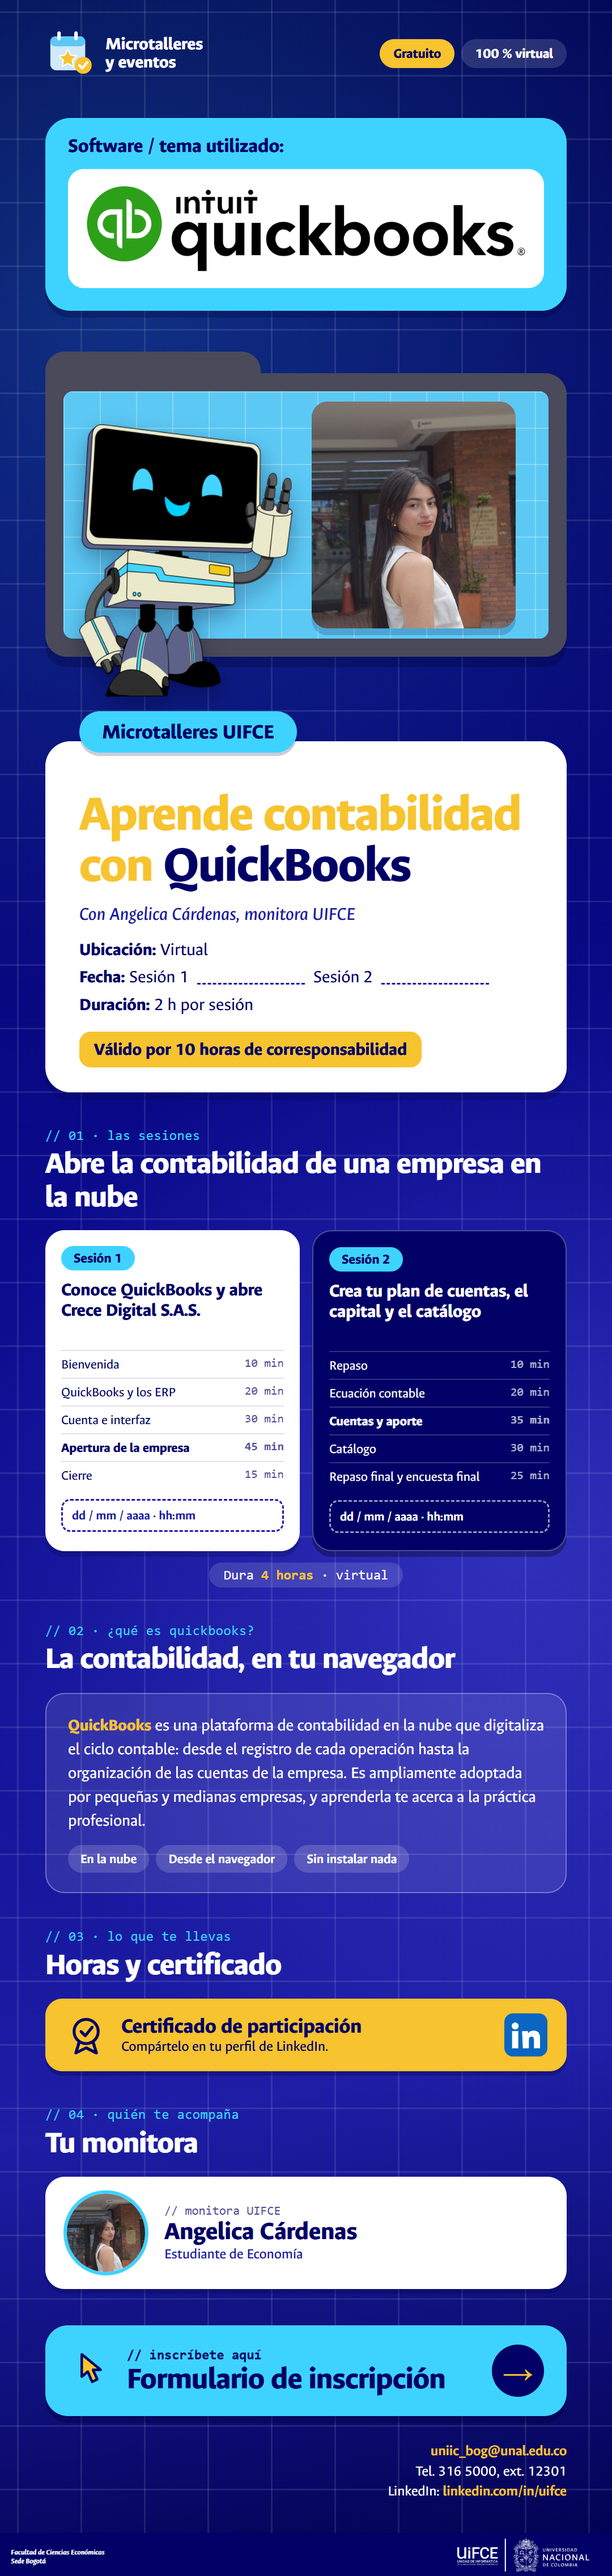
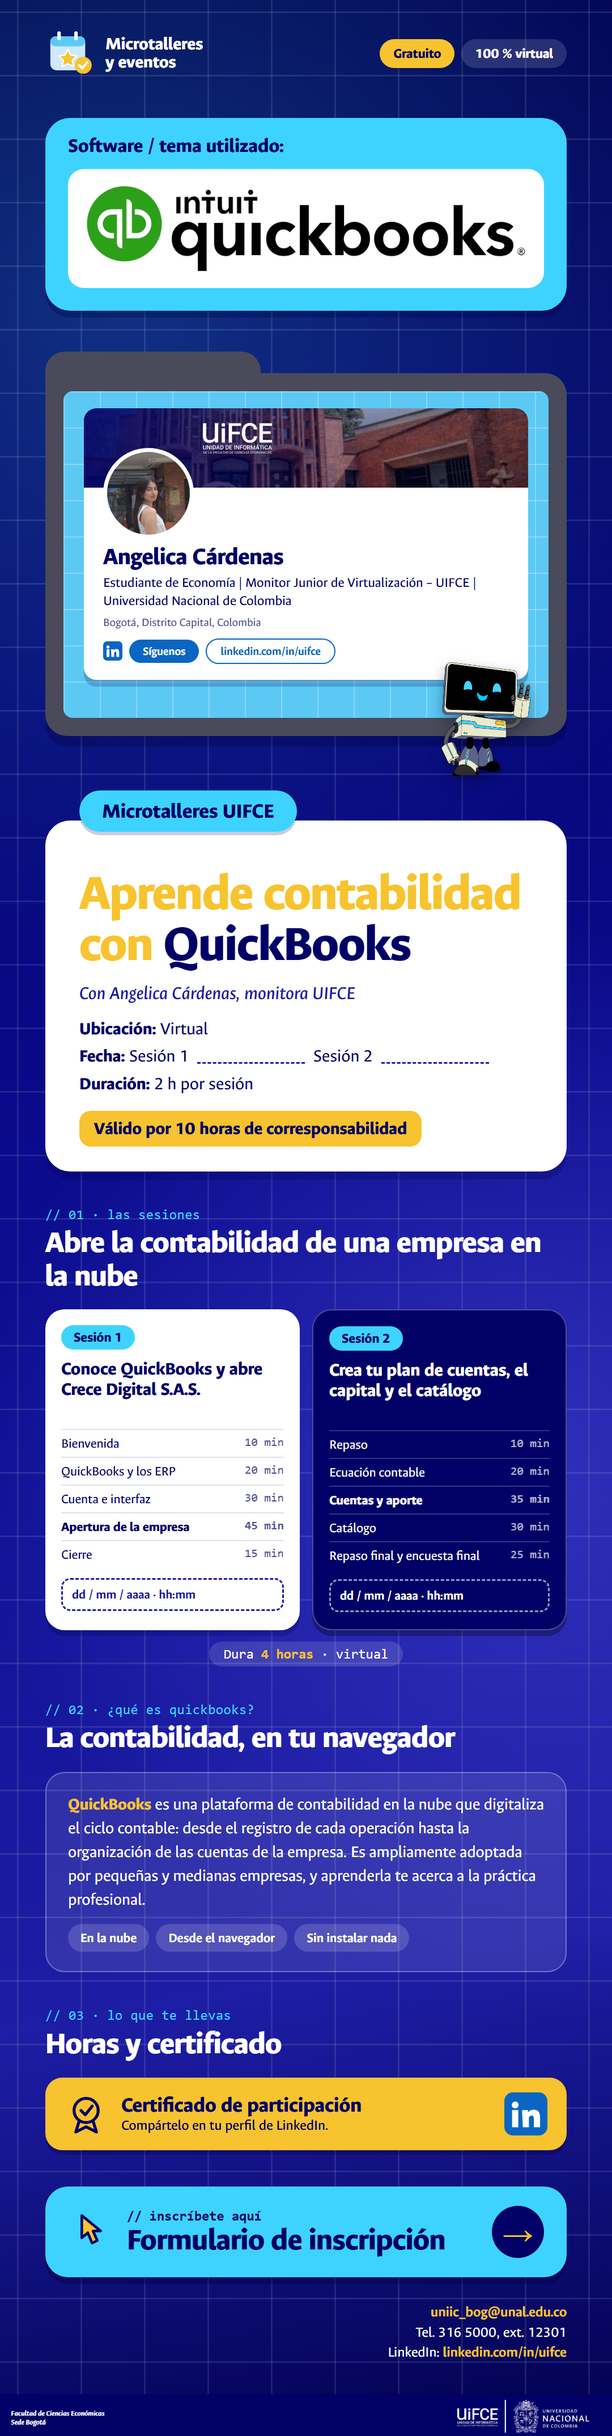
Propuesta 2: perfil de LinkedIn de la monitora, mascota mas pequena

diff --git a/propuesta-2/index.html b/propuesta-2/index.html
@@ -30,13 +30,25 @@
   .tags span.on{background:var(--gold);color:var(--navy)}
 
   /* ventana-carpeta con la foto */
-  .win{margin:110px 80px 0;height:500px;position:relative}
+  .win{margin:110px 80px 0;height:640px;position:relative}
   .win .back{position:absolute;inset:0;background:#4a4a5a;border-radius:38px;box-shadow:0 18px 0 rgba(0,0,40,.25)}
   .win .back::before{content:"";position:absolute;left:0;top:-38px;width:380px;height:80px;background:#4a4a5a;border-radius:34px 34px 0 0}
   .win .screen{position:absolute;left:32px;top:32px;right:32px;bottom:32px;border-radius:16px;background:
       linear-gradient(rgba(255,255,255,.28) 2px,transparent 2px),linear-gradient(90deg,rgba(255,255,255,.28) 2px,transparent 2px),var(--sky);background-size:64px 64px,64px 64px,auto}
-  .win .photo{position:absolute;left:470px;top:50px;width:360px;height:400px;border-radius:28px;object-fit:cover;object-position:60% 30%;box-shadow:0 12px 0 rgba(0,0,60,.18)}
-  .win .robot{position:absolute;left:60px;top:90px;height:480px;z-index:4;filter:drop-shadow(0 16px 20px rgba(0,0,40,.35))}
+  .win .robot{position:absolute;right:64px;bottom:-70px;height:200px;z-index:4;filter:drop-shadow(0 10px 12px rgba(0,0,40,.35))}
+  /* tarjeta estilo perfil de LinkedIn */
+  .pf{position:absolute;left:68px;right:68px;top:62px;background:#fff;border-radius:22px;overflow:hidden;box-shadow:0 12px 0 rgba(0,0,60,.2)}
+  .pf .cover{height:140px;position:relative;background:linear-gradient(90deg,rgba(0,0,102,.85),rgba(0,0,102,.1) 70%),url("assets/portada-uifce.jpg") center 35%/cover}
+  .pf .cover .lg{position:absolute;left:210px;top:26px;height:54px}
+  .pf .av{position:absolute;left:34px;top:70px;width:160px;height:160px;border-radius:50%;object-fit:cover;object-position:60% 25%;border:7px solid #fff;background:#fff}
+  .pf .body{padding:100px 34px 28px}
+  .pf h3{font-weight:800;font-size:44px;line-height:1;letter-spacing:-.01em}
+  .pf p{font-size:25px;line-height:1.3;margin-top:8px;color:var(--navy)}
+  .pf .loc{font-size:21px;color:#4D4D94;margin-top:8px}
+  .pf .btns{display:flex;gap:12px;margin-top:16px;align-items:center}
+  .pf .btns span{font-weight:700;font-size:21px;border-radius:999px;padding:8px 24px}
+  .pf .b1{background:#0A66C2;color:#fff}
+  .pf .b2{border:2px solid #0A66C2;color:#0A66C2}
 
   /* tarjeta blanca */
   .pill{position:relative;z-index:5;display:inline-block;margin:96px 0 -34px 140px;background:var(--cyan);color:var(--navy);font-weight:800;font-size:38px;border-radius:999px;padding:14px 40px;box-shadow:0 6px 0 rgba(0,0,60,.2)}
@@ -115,7 +127,16 @@
 <div class="win">
   <div class="back"></div>
   <div class="screen"></div>
-  <img class="photo" src="assets/angelica-cardenas.jpg" alt="Angelica Cárdenas, monitora UIFCE">
+  <div class="pf">
+    <div class="cover"><img class="lg" src="assets/logo-uifce-static-blanco.png" alt="UIFCE"></div>
+    <img class="av" src="assets/angelica-cardenas.jpg" alt="Angelica Cárdenas, monitora UIFCE">
+    <div class="body">
+      <h3>Angelica Cárdenas</h3>
+      <p>Estudiante de Economía | Monitor Junior de Virtualización – UIFCE | Universidad Nacional de Colombia</p>
+      <div class="loc">Bogotá, Distrito Capital, Colombia</div>
+      <div class="btns"><svg width="34" height="34" viewBox="0 0 50 50" aria-label="LinkedIn"><rect width="50" height="50" rx="10" fill="#0A66C2"/><circle cx="12.6" cy="14.6" r="4" fill="#fff"/><rect x="9" y="20.5" width="7.2" height="20" fill="#fff"/><path d="M20.5 20.5h6.9v2.9c1.2-2 3.4-3.4 6.6-3.4 6 0 7.5 3.9 7.5 9.2v11.3h-7.2V30.8c0-2.2-.4-3.9-2.6-3.9-2.4 0-3.2 1.7-3.2 4.2v9.4h-7z" fill="#fff"/></svg><span class="b1">Síguenos</span><span class="b2">linkedin.com/in/uifce</span></div>
+    </div>
+  </div>
   <img class="robot" src="assets/uifcito-cierre.png" alt="Uifcito, el robot de la UIFCE">
 </div>
 
@@ -157,14 +178,6 @@
       <svg width="76" height="76" viewBox="0 0 50 50" fill="none" stroke="#000066" stroke-width="3.4" stroke-linecap="round" stroke-linejoin="round" style="flex:none"><circle cx="25" cy="21" r="14"/><path d="M19 21l5 5 8-10M17 33l-4 13 12-6 12 6-4-13"/></svg>
       <div><b>Certificado de participación</b><span>Compártelo en tu perfil de LinkedIn.</span></div>
       <svg width="76" height="76" viewBox="0 0 50 50" role="img" aria-label="LinkedIn" style="flex:none;margin-left:auto"><rect width="50" height="50" rx="10" fill="#0A66C2"/><circle cx="12.6" cy="14.6" r="4" fill="#fff"/><rect x="9" y="20.5" width="7.2" height="20" fill="#fff"/><path d="M20.5 20.5h6.9v2.9c1.2-2 3.4-3.4 6.6-3.4 6 0 7.5 3.9 7.5 9.2v11.3h-7.2V30.8c0-2.2-.4-3.9-2.6-3.9-2.4 0-3.2 1.7-3.2 4.2v9.4h-7z" fill="#fff"/></svg>
-    </div>
-  </section>
-
-  <section class="sec">
-    <h2><small>// 04 · quién te acompaña</small>Tu monitora</h2>
-    <div class="who">
-      <img src="assets/angelica-cardenas.jpg" alt="Angelica Cárdenas">
-      <div><small>// monitora UIFCE</small><b>Angelica Cárdenas</b><span>Estudiante de Economía</span></div>
     </div>
   </section>
 

diff --git a/index.html b/index.html
@@ -61,7 +61,7 @@
 </main>
 <script>
   var tabs=document.querySelectorAll('nav button'), panels={1:document.getElementById('p1'),2:document.getElementById('p2'),3:document.getElementById('p3'),4:document.getElementById('p4')};
-  var SIZES={1:[1080,3669],2:[1080,4542],3:[1080,3391],4:[1080,2877]};
+  var SIZES={1:[1080,3669],2:[1080,4296],3:[1080,3391],4:[1080,2877]};
   function fit(){
     var cw=document.documentElement.clientWidth;
     [1,2,3,4].forEach(function(n){
